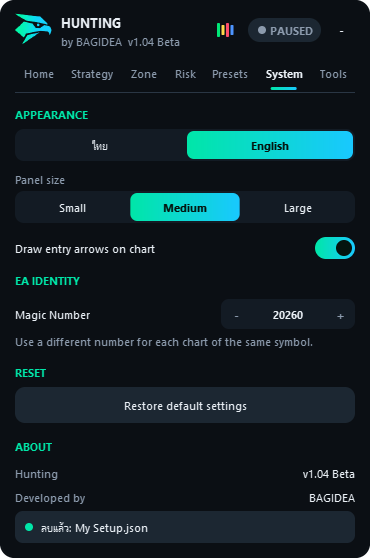
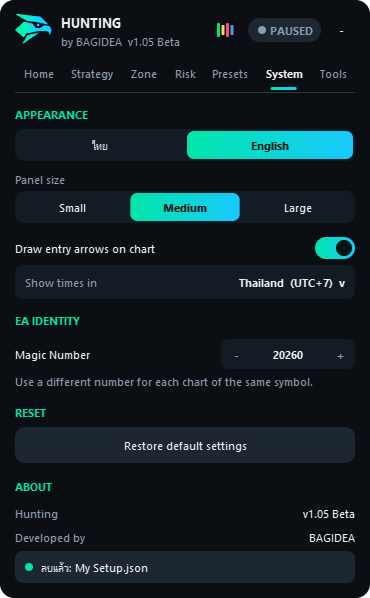
Publish Hunting website v1.05 Beta

diff --git a/docs.html b/docs.html
@@ -60,7 +60,7 @@
     <header>
       <p class="eyebrow">เอกสาร</p>
       <h1>คู่มือ Hunting</h1>
-      <p class="lead">ทุกความสามารถของ EA และทุกการตั้งค่า อธิบายตามการทำงานจริงของเวอร์ชัน 1.04 Beta</p>
+      <p class="lead">ทุกความสามารถของ EA และทุกการตั้งค่า อธิบายตามการทำงานจริงของเวอร์ชัน 1.05 Beta</p>
     </header>
 
     <div class="callout warn">
@@ -359,7 +359,9 @@
     <section id="tools">
       <h2>หน้าเครื่องมือ</h2>
       <p>ทั้ง 3 เครื่องมือใช้ดูข้อมูลเท่านั้น ไม่เปิดหรือปิดไม้ และค่าที่กรอกไม่ถูกบันทึกลงการตั้งค่าหรือพรีเซ็ต</p>
-      <h3>Payoff</h3>
+      <h3>โซนเวลา</h3>
+      <p>ค่าเริ่มต้นคือเวลาไทย กด "แสดงเวลาตาม" ที่หน้าเวลาโลก ปฏิทินข่าว หรือหน้าระบบ เพื่อเลือกประเทศอื่น, UTC, เวลาเซิร์ฟเวอร์โบรกเกอร์ หรือเวลาเครื่องนี้ ค่านี้ไม่ติดไปกับพรีเซ็ต ผู้ใช้ต่างประเทศจึงตั้งของตัวเองได้ เวลาเทรดในหน้าความเสี่ยงยังเป็นเวลาเซิร์ฟเวอร์เหมือนเดิม</p>
+      <h3>Payoff ฟอเร็กซ์</h3>
       <p>แสดงกำไร/ขาดทุนตามราคาปลายทาง เป็นกราฟและตาราง พร้อมราคาคุ้มทุน</p>
       <ul>
         <li><strong>จำลองไม้:</strong> เลือก Buy หรือ Sell แล้วกรอก Lot, ราคาเข้า, SL และ TP ราคาเข้า 0 หมายถึงราคาตลาด จะเห็นขาดทุนที่ SL, กำไรที่ TP, Risk : Reward และ SL เทียบพอร์ต</li>
@@ -368,11 +370,19 @@
         <li><strong>สิ่งที่ไม่ได้รวม:</strong> สเปรด, swap, ค่าคอมมิชชัน และ slippage ผลจริงจึงต่างจากตัวเลขนี้ได้</li>
         <li><strong>ถ้าไม่ได้ล็อกอิน:</strong> MT5 ไม่มีข้อมูลแปลงเป็นเงิน ตารางจะแสดงเป็น Lot x จุด แทน</li>
       </ul>
+      <h3>Payoff ออปชัน</h3>
+      <p>เลือก "ออปชัน" ในหน้า Payoff แล้วเลือกกลยุทธ์สำเร็จรูป (Long/Short Call, Long/Short Put, Bull/Bear Spread, Straddle, Strangle, Iron Condor) หรือจัดเองได้สูงสุด 4 ขา แต่ละขากำหนด Buy/Sell, Call/Put, Strike, Premium และจำนวนสัญญาได้</p>
+      <ul>
+        <li><strong>ต้องกรอก Premium จริง:</strong> EA ไม่รู้ราคาออปชันในตลาด ค่าในกลยุทธ์สำเร็จรูปเป็นเพียงตัวอย่าง และจะมีคำเตือนจนกว่าจะกรอกเอง</li>
+        <li><strong>ตัวคูณต่อสัญญา:</strong> ค่าเริ่มต้น 100 ต้องตั้งให้ตรงกับสัญญาที่เทรดจริง</li>
+        <li><strong>ผลลัพธ์:</strong> กำไรสูงสุด ขาดทุนสูงสุด Premium สุทธิ Risk : Reward และราคาคุ้มทุนทุกจุด</li>
+        <li><strong>ข้อจำกัด:</strong> คำนวณที่วันหมดอายุเท่านั้น ไม่มีมูลค่าเวลาหรือ Greeks ไม่รวมค่าธรรมเนียม P/L อยู่ในสกุลเดียวกับ Premium และ EA ตัวนี้ไม่ได้ส่งคำสั่งออปชัน</li>
+      </ul>
       <h3>เวลาโลก</h3>
-      <p>แสดงเวลาเครื่องของคุณ เวลาเซิร์ฟเวอร์โบรกเกอร์ และเวลาของสหรัฐฯ แคนาดา อังกฤษ เยอรมนี สวิตเซอร์แลนด์ ญี่ปุ่น จีน ไทย ออสเตรเลีย และนิวซีแลนด์ โดยปรับเวลาออมแสงให้เอง</p>
-      <p>แถบด้านล่างแสดงช่วงตลาดซิดนีย์ โตเกียว ลอนดอน และนิวยอร์ก ตามเวลาเครื่องของคุณ เส้นสีส้มคือเวลาตอนนี้ ป้ายเปิด/ปิดอิงชั่วโมงตลาด FX ทั่วไปในวันจันทร์ถึงศุกร์ และไม่รู้วันหยุดนักขัตฤกษ์</p>
+      <p>แสดงเวลาตามโซนที่เลือก เวลาเซิร์ฟเวอร์โบรกเกอร์ เวลาเครื่องนี้ และเวลาของสหรัฐฯ แคนาดา อังกฤษ เยอรมนี สวิตเซอร์แลนด์ ญี่ปุ่น จีน ไทย ออสเตรเลีย และนิวซีแลนด์ โดยปรับเวลาออมแสงให้เอง</p>
+      <p>แถบด้านล่างแสดงช่วงตลาดซิดนีย์ โตเกียว ลอนดอน และนิวยอร์ก ตามโซนเวลาที่เลือก เส้นสีส้มคือเวลาตอนนี้ ป้ายเปิด/ปิดอิงชั่วโมงตลาด FX ทั่วไปในวันจันทร์ถึงศุกร์ และไม่รู้วันหยุดนักขัตฤกษ์</p>
       <h3>ปฏิทินข่าว</h3>
-      <p>ดึงจากปฏิทินในตัว MT5 เลือกได้ว่าจะดูวันนี้ พรุ่งนี้ หรือ 7 วัน เลือกระดับความสำคัญ และเลือกเฉพาะสกุลเงินของคู่นี้หรือทุกสกุล แต่ละข่าวแสดงเวลาตามเครื่องของคุณ พร้อมค่าจริง ค่าคาด และค่าก่อนหน้า จุดแดงคือความสำคัญสูง จุดส้มคือปานกลาง</p>
+      <p>ดึงจากปฏิทินในตัว MT5 เลือกได้ว่าจะดูวันนี้ พรุ่งนี้ หรือ 7 วัน เลือกระดับความสำคัญ และเลือกเฉพาะสกุลเงินของคู่นี้หรือทุกสกุล แต่ละข่าวแสดงเวลาตามโซนที่เลือก พร้อมค่าจริง ค่าคาด และค่าก่อนหน้า จุดแดงคือความสำคัญสูง จุดส้มคือปานกลาง</p>
       <p>ปฏิทินนี้ใช้ดูเท่านั้น EA ไม่หยุดเทรดเองเมื่อมีข่าว</p>
     </section>
 

diff --git a/index.html b/index.html
@@ -66,9 +66,9 @@
     <article class="card"><h3>ตัวป้องกันความเสี่ยง</h3><p>จำกัดขาดทุนรายวัน จำกัด Spread กำหนดเวลาเทรด และตรวจ Margin กับข้อกำหนดโบรกเกอร์ก่อนส่งออเดอร์</p></article>
     <article class="card"><h3>พรีเซ็ตนำเข้า/ส่งออกได้</h3><p>บันทึกการตั้งค่าเป็น .json เพื่อแชร์ และ .set เพื่อใช้ใน Strategy Tester ไฟล์ใช้ร่วมกันได้ทุก Terminal ในเครื่อง</p></article>
     <article class="card"><h3>เริ่มต้นแบบปลอดภัย</h3><p>แนบ EA แล้วจะยังไม่เปิดไม้จนกว่าจะกด "เริ่มล่า" และรอแท่งเทียนปิดก่อนเสมอ ไม่เข้าไม้จากสัญญาณเก่า</p></article>
-    <article class="card"><h3>ตาราง Payoff</h3><p>ดูกำไร/ขาดทุนตามราคาปลายทางเป็นกราฟและตาราง ทั้งไม้จำลองและไม้ที่ EA เปิดอยู่ พร้อม Risk : Reward และราคาคุ้มทุน</p></article>
-    <article class="card"><h3>เวลาโลก</h3><p>เวลา 10 ประเทศหลักพร้อมปรับเวลาออมแสงให้เอง และแถบช่วงตลาดซิดนีย์ โตเกียว ลอนดอน นิวยอร์ก ตามเวลาเครื่องคุณ</p></article>
-    <article class="card"><h3>ปฏิทินข่าว</h3><p>ดูข่าวเศรษฐกิจจากปฏิทินในตัว MT5 กรองตามวัน ความสำคัญ และสกุลเงิน พร้อมค่าจริง ค่าคาด และค่าก่อนหน้า</p></article>
+    <article class="card"><h3>ตาราง Payoff</h3><p>ดูกำไร/ขาดทุนเป็นกราฟและตาราง ทั้งฟอเร็กซ์และออปชัน มีกลยุทธ์ออปชันสำเร็จรูป พร้อม Risk : Reward และราคาคุ้มทุน</p></article>
+    <article class="card"><h3>เวลาโลก</h3><p>เวลา 10 ประเทศหลักพร้อมปรับเวลาออมแสงให้เอง และแถบช่วงตลาดซิดนีย์ โตเกียว ลอนดอน นิวยอร์ก ตามโซนเวลาที่เลือก</p></article>
+    <article class="card"><h3>ปฏิทินข่าว</h3><p>ดูข่าวเศรษฐกิจจากปฏิทินในตัว MT5 แสดงเป็นเวลาไทยหรือเลือกโซนอื่นได้ กรองตามวัน ความสำคัญ และสกุลเงิน พร้อมค่าจริง ค่าคาด และค่าก่อนหน้า</p></article>
   </div>
 </section>
 
